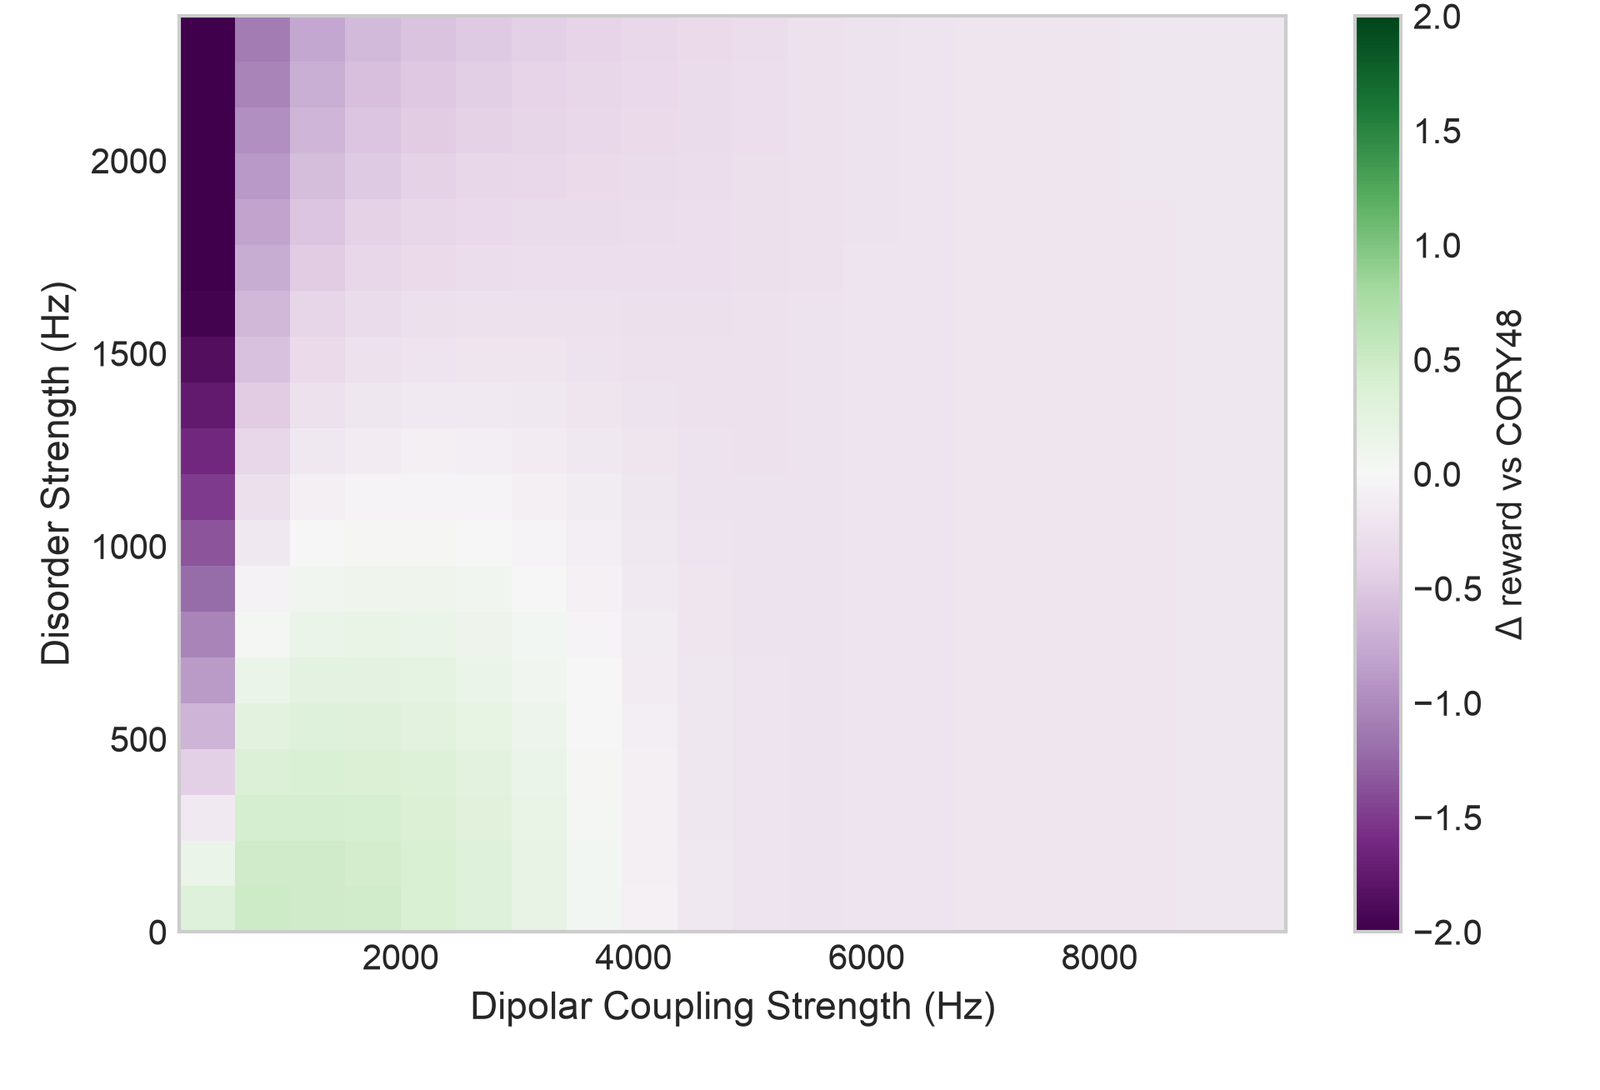
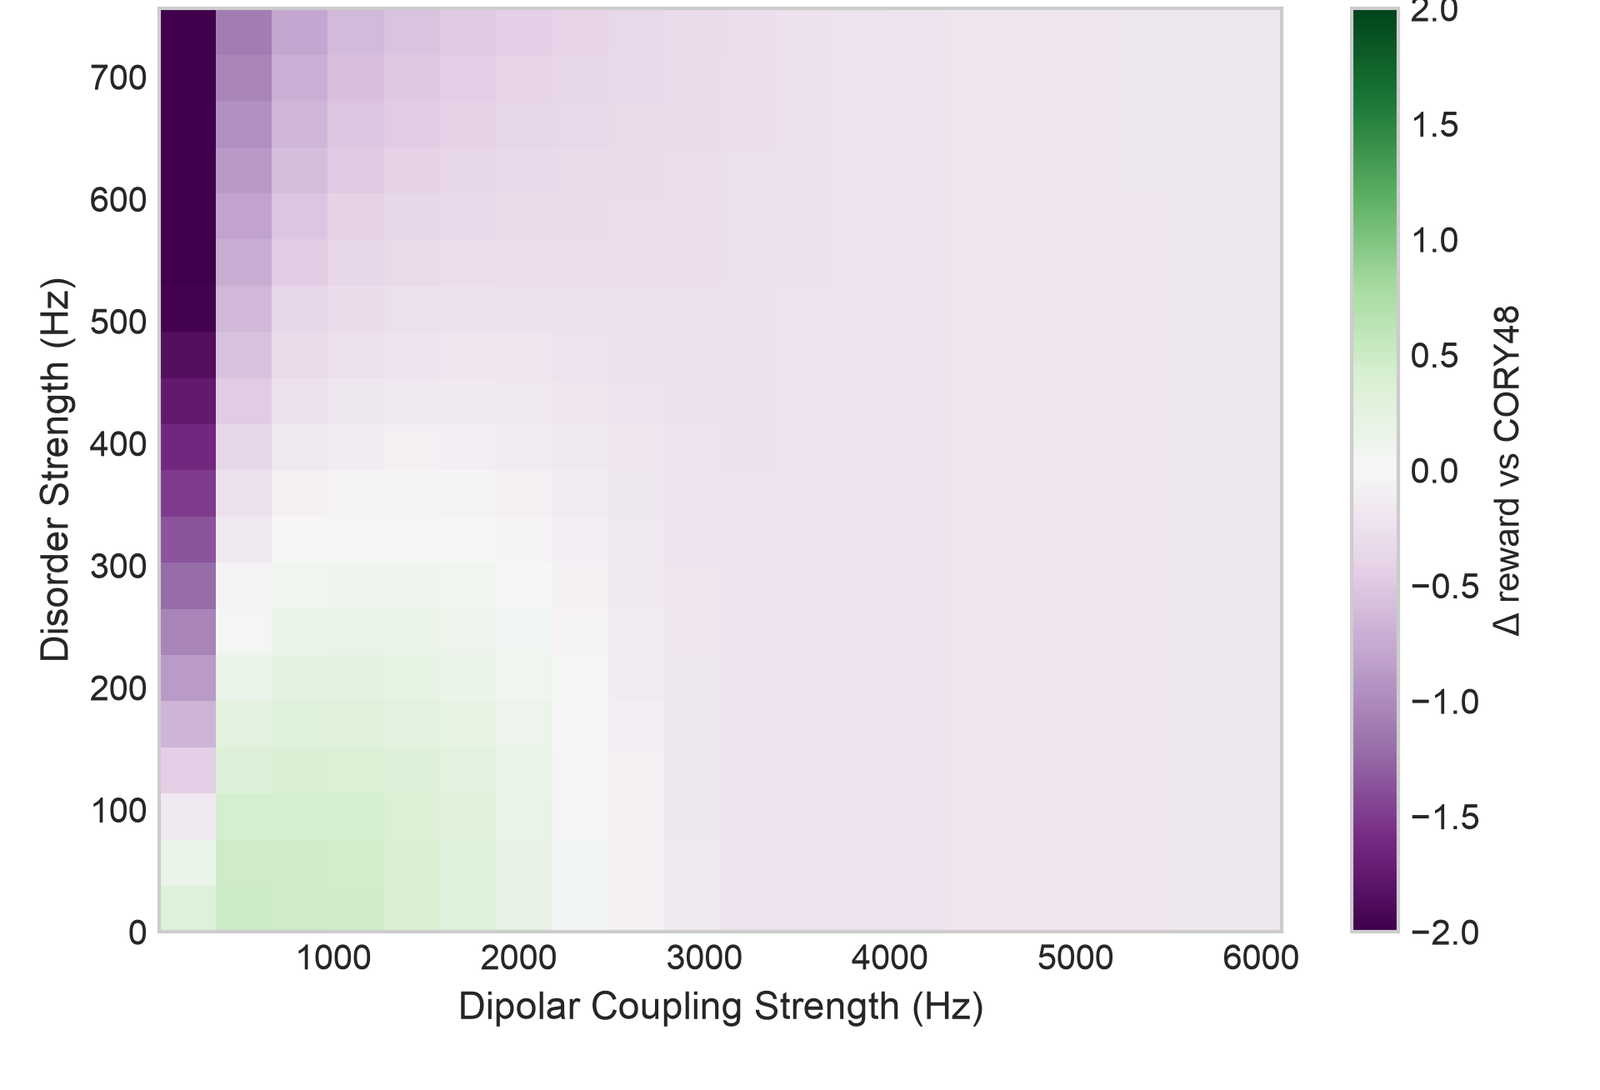
Label frequencies in scaled units
Disorder, coupling and offset values keep the simulator's scaled numbers
and state their unit each time: units of 1/π Hz for disorder and offsets,
units of 2/π Hz for couplings. Section 2 gives the size of one unit once,
in rad/s and in Hz, and the Notes point back to it. The Figure 12 bank
labels come from the re-exported data file. The Figure 13 maps are
re-cropped from the research plots, which now draw both axes in Hz.

diff --git a/index.html b/index.html
@@ -87,7 +87,7 @@
 <p class="eq"><math display="block"><mrow><msup><mi>H</mi><mo>&#x2032;</mo></msup><mo>=</mo><msub><mi>H</mi><mtext>int</mtext></msub><mo>+</mo><mi>&#x0394;</mi><mi>&#x03C9;</mi><munder><mo>&#x2211;</mo><mi>i</mi></munder><msubsup><mi>S</mi><mi>z</mi><mi>i</mi></msubsup><mo>+</mo><msub><mi>&#x03C9;</mi><mi>1</mi></msub><munder><mo>&#x2211;</mo><mi>i</mi></munder><msubsup><mi>S</mi><mi>b</mi><mi>i</mi></msubsup><mo>,</mo><mspace width="1.5em"/><mi>b</mi><mo>=</mo><mi>x</mi><mtext>&#x2009;or&#x2009;</mtext><mi>y</mi></mrow></math></p>
 <p>The simulator writes the same Hamiltonian with Pauli matrices <math><mrow><mi>&#x03C3;</mi><mo>=</mo><mn>2</mn><mi>S</mi></mrow></math>, draws the coefficients at random around the stated values instead of placing spins in space, and draws the offset once per ensemble member:</p>
 <p class="eq"><math display="block"><mrow><msub><mi>H</mi><mtext>sys</mtext></msub><mo>=</mo><munder><mo>&#x2211;</mo><mi>i</mi></munder><mrow><mo>(</mo><mi>&#x0394;</mi><mo>+</mo><msub><mi>c</mi><mi>i</mi></msub><mo>)</mo></mrow><msubsup><mi>&#x03C3;</mi><mi>z</mi><mi>i</mi></msubsup><mo>+</mo><munder><mo>&#x2211;</mo><mrow><mi>i</mi><mo>&lt;</mo><mi>j</mi></mrow></munder><msub><mi>D</mi><mrow><mi>i</mi><mi>j</mi></mrow></msub><mrow><mo>(</mo><mn>2</mn><msubsup><mi>&#x03C3;</mi><mi>z</mi><mi>i</mi></msubsup><msubsup><mi>&#x03C3;</mi><mi>z</mi><mi>j</mi></msubsup><mo>&#x2212;</mo><msubsup><mi>&#x03C3;</mi><mi>x</mi><mi>i</mi></msubsup><msubsup><mi>&#x03C3;</mi><mi>x</mi><mi>j</mi></msubsup><mo>&#x2212;</mo><msubsup><mi>&#x03C3;</mi><mi>y</mi><mi>i</mi></msubsup><msubsup><mi>&#x03C3;</mi><mi>y</mi><mi>j</mi></msubsup><mo>)</mo></mrow></mrow></math></p>
-<p>with <math><mrow><msub><mi>D</mi><mrow><mi>i</mi><mi>j</mi></mrow></msub><mo>=</mo><msub><mi>d</mi><mrow><mi>i</mi><mi>j</mi></mrow></msub><mo>/</mo><mn>4</mn></mrow></math>, <math><mrow><msub><mi>c</mi><mi>i</mi></msub><mo>=</mo><msub><mi>&#x03B4;</mi><mi>i</mi></msub><mo>/</mo><mn>2</mn></mrow></math> and <math><mrow><mi>&#x0394;</mi><mo>=</mo><mi>&#x0394;</mi><mi>&#x03C9;</mi><mo>/</mo><mn>2</mn></mrow></math>. The Hz values in the Notes are these coefficients.</p>
+<p>with <math><mrow><msub><mi>D</mi><mrow><mi>i</mi><mi>j</mi></mrow></msub><mo>=</mo><msub><mi>d</mi><mrow><mi>i</mi><mi>j</mi></mrow></msub><mo>/</mo><mn>4</mn></mrow></math>, <math><mrow><msub><mi>c</mi><mi>i</mi></msub><mo>=</mo><msub><mi>&#x03B4;</mi><mi>i</mi></msub><mo>/</mo><mn>2</mn></mrow></math> and <math><mrow><mi>&#x0394;</mi><mo>=</mo><mi>&#x0394;</mi><mi>&#x03C9;</mi><mo>/</mo><mn>2</mn></mrow></math>. The disorder, coupling and offset values quoted on this page are these coefficients, in the simulator's scaled units: one unit of coupling is 4 rad/s, which is 2/π Hz or 0.637 Hz, and one unit of disorder or offset is 2 rad/s, which is 1/π Hz or 0.318 Hz. The frequency axes of the figures are in Hz.</p>
 <p>A 90-degree pulse about the axis a is a finite rotation. The spins' own Hamiltonian keeps acting during it, a rotation error <math><mrow><msub><mi>&#x03B5;</mi><mi>rot</mi></msub></mrow></math> makes the turn slightly too large, and a phase transient <math><mrow><msub><mi>&#x03B5;</mi><mi>pt</mi></msub></mrow></math> adds a small turn about the other transverse axis at each end:</p>
 <p class="eq"><math display="block"><mrow><msub><mi>U</mi><mi>a</mi></msub><mo>=</mo><mi>W</mi><mo>&#x2062;</mo><mi>exp</mi><mo>&#x2061;</mo><mrow><mo>[</mo><mo>&#x2212;</mo><mi>i</mi><mrow><mo>(</mo><msub><mi>t</mi><mi>p</mi></msub><msub><mi>H</mi><mtext>sys</mtext></msub><mo>+</mo><mfrac><mi>&#x03C0;</mi><mn>2</mn></mfrac><mrow><mo>(</mo><mn>1</mn><mo>+</mo><msub><mi>&#x03B5;</mi><mi>rot</mi></msub><mo>)</mo></mrow><mi>A</mi><mo>)</mo></mrow><mo>]</mo></mrow><mo>&#x2062;</mo><mi>W</mi><mo>,</mo><mspace width="1.5em"/><mi>W</mi><mo>=</mo><mi>exp</mi><mo>&#x2061;</mo><mrow><mo>(</mo><mo>&#x2212;</mo><mi>i</mi><mfrac><mi>&#x03C0;</mi><mn>2</mn></mfrac><msub><mi>&#x03B5;</mi><mi>pt</mi></msub><msub><mi>A</mi><mo>&#x22A5;</mo></msub><mo>)</mo></mrow></mrow></math></p>
 <p>where <math><mrow><mi>A</mi><mo>=</mo><munder><mo>&#x2211;</mo><mi>i</mi></munder><msubsup><mi>S</mi><mi>a</mi><mi>i</mi></msubsup></mrow></math> is the collective spin along the pulse axis, <math><mrow><msub><mi>A</mi><mo>&#x22A5;</mo></msub></mrow></math> the collective spin along the other transverse axis and <math><mrow><msub><mi>t</mi><mi>p</mi></msub></mrow></math> the pulse width. Between pulses the spins evolve freely under <math><mrow><mi>exp</mi><mo>&#x2061;</mo><mrow><mo>(</mo><mo>&#x2212;</mo><mi>i</mi><msub><mi>H</mi><mtext>sys</mtext></msub><mi>t</mi><mo>)</mo></mrow></mrow></math>. A block is two such pulses, each followed by a free interval, then a free window, as in the sketch above.</p>
@@ -327,8 +327,8 @@
 
 <h2 id="sec10"><span class="num">10</span>Notes</h2>
 <div class="notes">
-<p><b>Settings.</b> Figures 12 to 15 use an exact evaluator on 7 spins, 20 ensemble members from one seed and 1 microsecond pulses, over 72 windows of 3 microseconds (Figure 15 varies the window length); Figures 2 and 3 use the same ensemble over one cycle at 1 kHz coupling with no disorder or control errors. Training used 3 spins, 5 ensemble members, 1 kHz coupling, no disorder and no errors. The three conditions, all with the three control errors, are 1 kHz coupling without disorder, 3 kHz with 100 Hz disorder (the ranking condition; Figures 14 and 15 use its disorder and coupling) and 4 kHz with 3 kHz disorder. The control errors are a rotation error of 1.5 percent, a phase transient of 1 percent of a quarter turn on each side of every pulse, and an offset drawn for each ensemble member with a spread of 10 Hz. Couplings have the secular dipolar form between every pair, drawn around the stated value with a quarter of it as spread. The small FunSearch run in Figure 18 used 8-block cycles, one 3-spin system and 2 microsecond windows, and counted a failed program as a random cycle. The live search uses the network saved after 90 thousand trainer steps of one SED run at exploration constant 9.5 and fixed temperature; its second physics setting is the ranking condition. Hz values are model units and carry no factor of 2π. The simulator writes the internal terms with Pauli matrices and the controls with spin-1/2 operators, so the Hz values are the coefficients of the Pauli form in Section 2.</p>
-<p><b>Caveats.</b> Our results here are not yet published. One run per setting (two at c=20.5) and no repeated seeds, so differences between settings are single observations. The margins in Figure 12 are small and measured on one saved ensemble. Everything here is simulated, on 3 or 7 spins with random all-to-all couplings and no lattice geometry. The first FunSearch run used different physics from the RL search: 4 kHz coupling and 3.5 kHz disorder.</p>
+<p><b>Settings.</b> Figures 12 to 15 use an exact evaluator on 7 spins, 20 ensemble members from one seed and 1 microsecond pulses, over 72 windows of 3 microseconds (Figure 15 varies the window length); Figures 2 and 3 use the same ensemble over one cycle at coupling 1000 (units of 2/π Hz) with no disorder or control errors. Training used 3 spins, 5 ensemble members, coupling 1000 (units of 2/π Hz), no disorder and no errors. The three conditions, all with the three control errors, are coupling 1000 (units of 2/π Hz) without disorder; coupling 3000 (units of 2/π Hz) with disorder 100 (units of 1/π Hz), the ranking condition, whose disorder and coupling Figures 14 and 15 also use; and coupling 4000 (units of 2/π Hz) with disorder 3000 (units of 1/π Hz). The control errors are a rotation error of 1.5 percent, a phase transient of 1 percent of a quarter turn on each side of every pulse, and an offset drawn for each ensemble member with a spread of 10 (units of 1/π Hz). Couplings have the secular dipolar form between every pair, drawn around the stated value with a quarter of it as spread. The small FunSearch run in Figure 18 used 8-block cycles, one 3-spin system and 2 microsecond windows, and counted a failed program as a random cycle. The live search uses the network saved after 90 thousand trainer steps of one SED run at exploration constant 9.5 and fixed temperature; its second physics setting is the ranking condition. The disorder, coupling and offset values are the coefficients of the Pauli form in Section 2, in the scaled units given there. The simulator writes the internal terms with Pauli matrices and the controls with spin-1/2 operators.</p>
+<p><b>Caveats.</b> Our results here are not yet published. One run per setting (two at c=20.5) and no repeated seeds, so differences between settings are single observations. The margins in Figure 12 are small and measured on one saved ensemble. Everything here is simulated, on 3 or 7 spins with random all-to-all couplings and no lattice geometry. The first FunSearch run used different physics from the RL search: coupling 4000 (units of 2/π Hz) and disorder 3500 (units of 1/π Hz).</p>
 <p><b>References.</b></p>
 <ol class="refs">
 <li id="ref-wahuha">J. S. Waugh, L. M. Huber and U. Haeberlen, Phys. Rev. Lett. 20, 180 (1968). <a href="https://doi.org/10.1103/PhysRevLett.20.180">doi:10.1103/PhysRevLett.20.180</a>.</li>
@@ -339,7 +339,7 @@
 <li id="ref-funsearch">Romera-Paredes et al., Nature 625, 468 (2024). <a href="https://doi.org/10.1038/s41586-023-06924-6">doi:10.1038/s41586-023-06924-6</a>.</li>
 </ol>
 <p>SED24, SED24Err and SED48 are earlier sequences from our group.</p>
-<p class="meta">Last updated 2026-10-21.</p>
+<p class="meta">Last updated 2026-10-26.</p>
 </div>
 
 </main>

diff --git a/data/site_data.js b/data/site_data.js
@@ -1,5 +1,5 @@
 window.SITE_DATA = {
- "generated": "2026-10-14",
+ "generated": "2026-10-26",
  "categories": [
   "Reference",
   "FunSearch",
@@ -126,15 +126,15 @@ window.SITE_DATA = {
  "banks": [
   {
    "id": "b1",
-   "label": "no disorder, 1 kHz coupling, all control errors"
+   "label": "no disorder, coupling 1000 (units of 2/π Hz), all control errors"
   },
   {
    "id": "b2",
-   "label": "100 Hz disorder, 3 kHz coupling, all control errors (ranking condition)"
+   "label": "disorder 100 (units of 1/π Hz), coupling 3000 (units of 2/π Hz), all control errors (ranking condition)"
   },
   {
    "id": "b3",
-   "label": "3 kHz disorder, 4 kHz coupling, all control errors"
+   "label": "disorder 3000 (units of 1/π Hz), coupling 4000 (units of 2/π Hz), all control errors"
   }
  ],
  "scores": {
